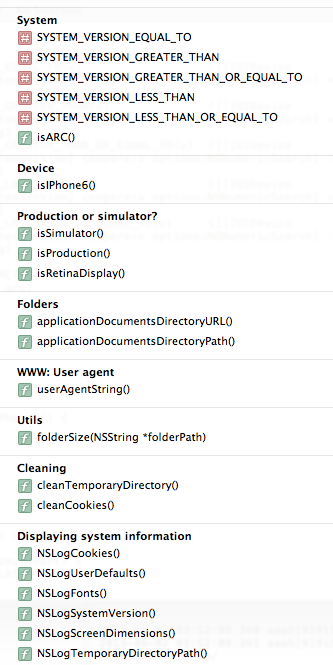
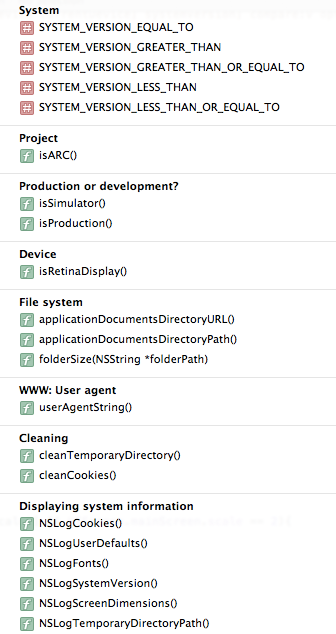
minor cleanups

Changed region(s): [[0.03, 0.0, 0.9309, 1.0]]

diff --git a/iOSEnvironment.h b/iOSEnvironment.h
@@ -7,6 +7,9 @@
 #define SYSTEM_VERSION_LESS_THAN(v)                 ([[[UIDevice currentDevice] systemVersion] compare:v options:NSNumericSearch] == NSOrderedAscending)
 #define SYSTEM_VERSION_LESS_THAN_OR_EQUAL_TO(v)     ([[[UIDevice currentDevice] systemVersion] compare:v options:NSNumericSearch] != NSOrderedDescending)
 
+#pragma mark
+#pragma mark Project
+
 static inline BOOL isARC() {
 #if __has_feature(objc_arc)
     return YES;
@@ -16,18 +19,7 @@ static inline BOOL isARC() {
 }
 
 #pragma mark
-#pragma mark Device
-
-static inline BOOL isIPhone6() {
-#ifdef __IPHONE_6_0
-    return YES;
-#else
-    return NO;
-#endif
-}
-
-#pragma mark
-#pragma mark Production or simulator?
+#pragma mark Production or development?
 
 static inline BOOL isSimulator() {
 #if TARGET_IPHONE_SIMULATOR
@@ -45,6 +37,9 @@ static inline BOOL isProduction() {
 #endif
 }
 
+#pragma mark
+#pragma mark Device
+
 static inline BOOL isRetinaDisplay() {
     BOOL isRetina;
 
@@ -58,7 +53,7 @@ static inline BOOL isRetinaDisplay() {
 }
 
 #pragma mark
-#pragma mark Folders
+#pragma mark File system
 
 static inline NSURL *applicationDocumentsDirectoryURL() {
     return [[[NSFileManager defaultManager] URLsForDirectory:NSDocumentDirectory inDomains:NSUserDomainMask] lastObject];
@@ -67,19 +62,6 @@ static inline NSURL *applicationDocumentsDirectoryURL() {
 static inline NSString *applicationDocumentsDirectoryPath() {
     return applicationDocumentsDirectoryURL().path;
 }
-
-#pragma mark
-#pragma mark WWW: User agent
-
-static inline NSString *userAgentString() {
-    UIWebView* webView = [[UIWebView alloc] initWithFrame:CGRectZero];
-    NSString* secretAgent = [webView stringByEvaluatingJavaScriptFromString:@"navigator.userAgent"];
-
-    return secretAgent;
-}
-
-#pragma mark
-#pragma mark Utils
 
 static inline unsigned long long int folderSize(NSString *folderPath) {
     NSArray *filesArray = [NSFileManager.defaultManager subpathsOfDirectoryAtPath:folderPath error:nil];
@@ -93,6 +75,16 @@ static inline unsigned long long int folderSize(NSString *folderPath) {
     }
 
     return fileSize;
+}
+
+#pragma mark
+#pragma mark WWW: User agent
+
+static inline NSString *userAgentString() {
+    UIWebView* webView = [[UIWebView alloc] initWithFrame:CGRectZero];
+    NSString* secretAgent = [webView stringByEvaluatingJavaScriptFromString:@"navigator.userAgent"];
+
+    return secretAgent;
 }
 
 #pragma mark
